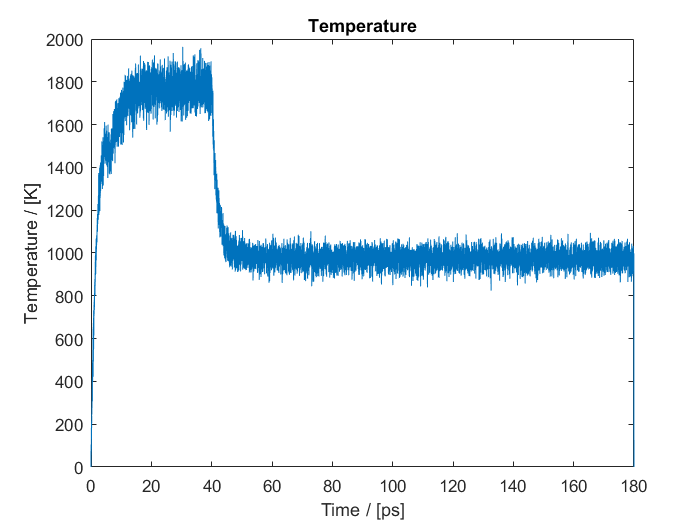
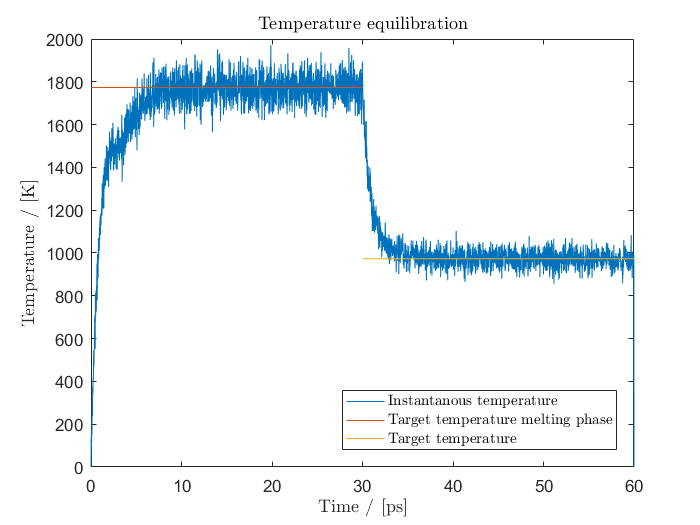
Changed timestep and equilibration time in task 3 adn 4

diff --git a/code/Task4/MD_main.c b/code/Task4/MD_main.c
@@ -8,12 +8,8 @@
 #include "alpotential.h"
 #define nbr_of_particles 256
 #define nbr_of_timesteps 1e4
-#define nbr_of_timesteps_eq 4000
+#define nbr_of_timesteps_eq 6000
 #define nbr_of_dimensions 3
-
-double boundary_condition(double,double);
-
-
 
 /* Main program */
 int main()
@@ -43,23 +39,23 @@ int main()
 
     /* Allocate memory for large vectors */
     /* Simulate 3 dimensional data by placing iniitalizeing a 1-dimensional array*/
-    #define qq(i,j,k) (disp_arr[nbr_of_particles*nbr_of_dimensions*i+nbr_of_dimensions*j+k])
-    double* disp_arr = (double*)malloc(nbr_of_timesteps*nbr_of_particles*nbr_of_dimensions*sizeof(double));
+    #define qq(i,j,k)         (disp_arr[nbr_of_particles*nbr_of_dimensions*i+nbr_of_dimensions*j+k])
+    double* disp_arr        = (double*)malloc(nbr_of_timesteps*nbr_of_particles*nbr_of_dimensions*sizeof(double));
 
-    double* energy 			= (double*) malloc(nbr_of_timesteps * sizeof(double));
+    double* energy_pot 		= (double*) malloc(nbr_of_timesteps * sizeof(double));
     double* energy_kin 		= (double*) malloc(nbr_of_timesteps * sizeof(double));
     double* virial 			= (double*) malloc(nbr_of_timesteps * sizeof(double));
     double* temperature_avg = (double*) malloc(nbr_of_timesteps * sizeof(double));
     double* pressure_avg 	= (double*) malloc(nbr_of_timesteps * sizeof(double));
-    double* temperature     = (double*) malloc((2 * nbr_of_timesteps_eq + nbr_of_timesteps) * sizeof(double));
-    double* pressure        = (double*) malloc((2 * nbr_of_timesteps_eq + nbr_of_timesteps) * sizeof(double));
+    double* temperature     = (double*) malloc((2 * nbr_of_timesteps_eq) * sizeof(double));
+    double* pressure        = (double*) malloc((2 * nbr_of_timesteps_eq) * sizeof(double));
 
     //TODO go over parameters again
     /* Initialize parameters*/
     initial_displacement 	= 0.05;
     lattice_param 			= 4.046; // For aluminium (Å)
     lattice_spacing 		= lattice_param/sqrt(2.0);
-    timestep 				= 0.01; // 0.1 Bad, 0.01 Seems decent
+    timestep 				= 0.005; // 0.1 Bad, 0.01 Seems decent
     m_AL 					= 0.0027964; // In ASU
     cell_length 			= 4*lattice_param;  // Side of the supercell: The 256 atoms are
                                     			// structured in a block of 4x4x4 unit cells
@@ -171,9 +167,6 @@ int main()
         }
     }
 
-    printf("Equilibration done.\n");
-    printf("Cell length: %.8f \n", cell_length);
-
     for (int i = 0; i < nbr_of_particles; i++){
         for (int j = 0; j < nbr_of_dimensions; j++){
             qq(0,i,j)=q[i][j];
@@ -181,7 +174,7 @@ int main()
     }
 
     // Compute energies, temperature etc. at equilibrium
-    energy[0] = get_energy_AL(q, cell_length, nbr_of_particles);
+    energy_pot[0] = get_energy_AL(q, cell_length, nbr_of_particles);
     virial[0] = get_virial_AL(q, cell_length, nbr_of_particles);
     energy_kin[0] = get_kinetic_AL(v, nbr_of_dimensions, nbr_of_particles, m_AL);
     temperature_avg[0] = instantaneous_temperature(energy_kin[0], nbr_of_particles);
@@ -218,7 +211,7 @@ int main()
 
         /* Calculate energy */
         // Potential energy
-        energy[i] = get_energy_AL(q, cell_length, nbr_of_particles);
+        energy_pot[i] = get_energy_AL(q, cell_length, nbr_of_particles);
         // Kinetic energy
         energy_kin[i] = get_kinetic_AL(v, nbr_of_dimensions, nbr_of_particles, m_AL);
 
@@ -226,16 +219,9 @@ int main()
 
 		// Temperature
         temperature_avg[i] = averaged_temperature(energy_kin, nbr_of_particles, i);
-        temperature[2*(nbr_of_timesteps_eq-1) + i] = instantaneous_temperature(energy_kin[i],
-            nbr_of_particles);
-
 
         // Pressure
         pressure_avg[i] = averaged_pressure(virial, energy_kin, volume, i);
-        pressure[2*(nbr_of_timesteps_eq-1) + i] = instantaneous_pressure(virial[i],
-            temperature[2*(nbr_of_timesteps_eq-1) + i],
-            nbr_of_particles, volume);
-
 
         /* Save current displacements to array*/
         for (int j = 0; j < nbr_of_particles; j++){
@@ -262,50 +248,27 @@ int main()
     }
     fclose(file);
 
-    /* Save energies to file */
-    file = fopen("energy.dat","w");
-
-    for (int i = 0; i < nbr_of_timesteps; i ++) {
-        current_time = i*timestep;
-        fprintf(file, "%.4f \t", current_time);
-        fprintf(file, "%.4f \t", energy[i]);
-        fprintf(file, "%.4f \n", energy_kin[i]);
-    }
-    fclose(file);
-
     // Save temperature to file
     file = fopen("temperature.dat", "w");
-    for (int i = 0; i < 2*nbr_of_timesteps_eq+nbr_of_timesteps; i++) {
+    for (int i = 0; i < 2*nbr_of_timesteps_eq; i++) {
     	current_time = i*timestep;
     	fprintf(file, "%.3f \t %e\n", current_time, temperature[i]);
     }
     fclose(file);
 
-    file = fopen("temperature_avg.dat", "w");
-    for (int i = 0; i < nbr_of_timesteps; i++) {
-        current_time = i*timestep;
-        fprintf(file, "%.3f \t %e\n", current_time, temperature_avg[i]);
-    }
-    fclose(file);
-
     // Save pressure to file
     file = fopen("pressure.dat", "w");
-    for (int i = 0; i < 2*nbr_of_timesteps_eq+nbr_of_timesteps; i++) {
+    for (int i = 0; i < 2*nbr_of_timesteps_eq; i++) {
     	current_time = i*timestep;
     	fprintf(file, "%.3f \t%e \n", current_time, pressure[i]);
     }
     fclose(file);
 
-    file = fopen("pressure_avg.dat", "w");
-    for (int i = 0; i < nbr_of_timesteps; i++) {
-        current_time = i*timestep;
-        fprintf(file, "%.3f \t %e\n", current_time, pressure_avg[i]);
-    }
-    fclose(file);
-
+    printf("Final Temperature: %e\n", temperature_avg[nbr_of_timesteps] );
+    printf("Final Pressure: %e\n", pressure_avg[nbr_of_timesteps] );
 
     free(energy_kin);		energy_kin = NULL;
-    free(energy); 			energy = NULL;
+    free(energy_pot); 		energy_pot = NULL;
     free(disp_arr); 		disp_arr = NULL;
 	free(virial); 			virial = NULL;
 	free(temperature_avg); 	temperature_avg = NULL;

diff --git a/code/Task4/plot_temperature.m b/code/Task4/plot_temperature.m
@@ -1,14 +1,24 @@
 % Plot the average temperature
 close % close previous figure
+clear all
 
-data = importdata('temperature_avg.dat');
+data = importdata('temperature.dat');
 
 % plot
 figure;
-plot(data(:,1), data(:,2), '-')
+plot(data(1:12000,1), data(1:12000,2), '-')
 
+hold on
+target_temperature1 = 1500+273.15;
+target_temperature2 = 700+273.15;
+plot(data(1:6000,1),target_temperature1*ones(1,6000),'-')
+plot(data(6001:12000,1),target_temperature2*ones(1,6000),'-')
+
+% legend
+legend({'Instantanous temperature','Target temperature melting phase', 'Target temperature'},'interpreter','latex','location','southeast')
+% 
 % labels
-xlabel('Time / [ps]')
-ylabel('Temperature / [K]')
+xlabel('Time / [ps]','interpreter','latex')
+ylabel('Temperature / [K]','interpreter','latex')
 % title
-title('Temperature average')
+title('Temperature equilibration','interpreter','latex')

diff --git a/code/Task4/plot_trajs.m b/code/Task4/plot_trajs.m
@@ -36,12 +36,12 @@ view(45, 45);
 
 % labels
 xlabel('Position / [\AA]','interpreter','latex');
-ylabel('Position / [\AA]','interpreter','latex')
+ylabel('Position / [\AA]','interpreter','latex');
 zlabel('Position / [\AA]','interpreter','latex');
 % legend
-legend({'Atom 1','Atom 2','Atom 3'},'interpreter','latex')
+legend({'Atom 1','Atom 2','Atom 3'},'interpreter','latex');
 
-title('Movement of atoms in liquid','interpreter','latex')
+title('Movement of atoms in solid','interpreter','latex')
 
 % axis limits
 

diff --git a/code/Task3/plot_pressure.m b/code/Task3/plot_pressure.m
@@ -6,11 +6,11 @@ data = importdata('pressure.dat');
 
 % plot
 figure;
-plot(data(1:8000,1), data(1:8000,2), '-')
+plot(data(1:12000,1), data(1:12000,2), '-')
 
 hold on
 target_temperature = 101325e-11/1.602;
-plot(data(1:8000,1),target_temperature*ones(1,8000),'--')
+plot(data(1:12000,1),target_temperature*ones(1,12000),'--')
 
 % legend
 legend({'Instantanous pressure','Target pressure'},'interpreter','latex','location','northeast')

diff --git a/code/Task4/plot_pressure.m b/code/Task4/plot_pressure.m
@@ -6,11 +6,11 @@ data = importdata('pressure.dat');
 
 % plot
 figure;
-plot(data(1:8000,1), data(1:8000,2), '-')
+plot(data(1:12000,1), data(1:12000,2), '-')
 
 hold on
 target_temperature = 101325e-11/1.602;
-plot(data(1:8000,1),target_temperature*ones(1,8000),'--')
+plot(data(1:12000,1),target_temperature*ones(1,12000),'--')
 
 % legend
 legend({'Instantanous pressure','Target pressure'},'interpreter','latex','location','northeast')

diff --git a/code/Task3/plot_temperature.m b/code/Task3/plot_temperature.m
@@ -6,11 +6,11 @@ data = importdata('temperature.dat');
 
 % plot
 figure;
-plot(data(1:8000,1), data(1:8000,2), '-')
+plot(data(1:12000,1), data(1:12000,2), '-')
 
 hold on
 target_temperature = 500+273.15;
-plot(data(1:8000,1),target_temperature*ones(1,8000),'--')
+plot(data(1:12000,1),target_temperature*ones(1,12000),'--')
 
 % legend
 legend({'Instantanous temperature','Target temperature'},'interpreter','latex','location','east')

diff --git a/code/Task3/MD_main.c b/code/Task3/MD_main.c
@@ -264,6 +264,9 @@ int main()
     }
     fclose(file);
 
+    printf("Final Temperature: %e\n", temperature_avg[nbr_of_timesteps] );
+    printf("Final Pressure: %e\n", pressure_avg[nbr_of_timesteps] );
+
     free(energy_kin);		energy_kin = NULL;
     free(energy_pot); 		energy_pot = NULL;
     free(disp_arr); 		disp_arr = NULL;
